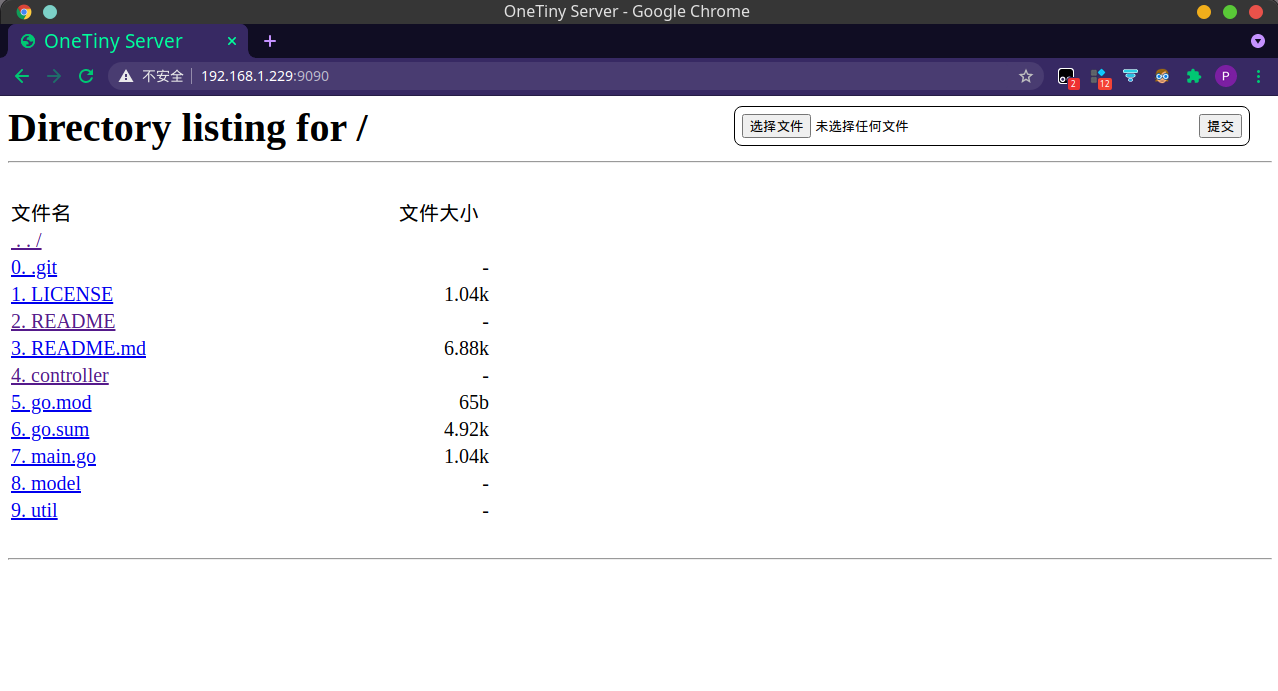
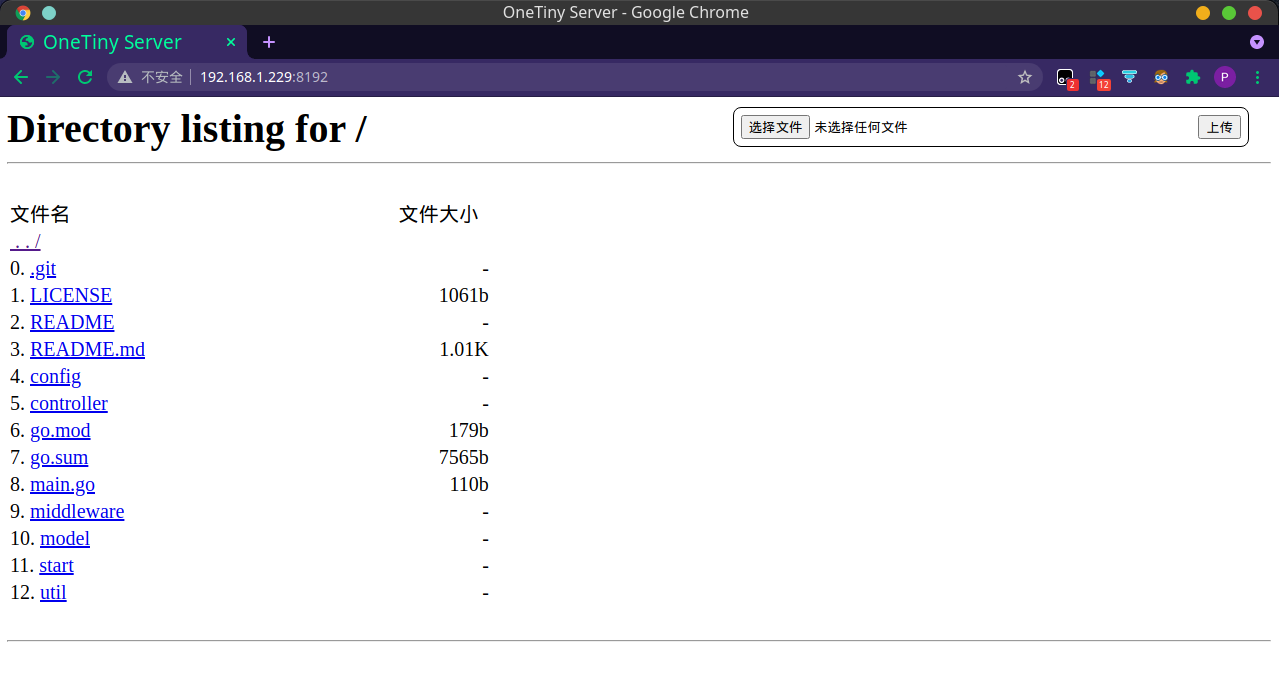
Docs: 修正 README 文档内容 Style: 修改上传框提交按钮文字为 「上传」

diff --git a/util/geneHTML.go b/util/geneHTML.go
@@ -40,7 +40,7 @@ func upload() string {
 		`<div style="position: absolute;right: 30px;top: 10px;font-size: 24px;width: 500px;border: 1px solid #000;padding: 7px;border-radius: 8px;">`,
 		`<form action="/upload" method="post" enctype="multipart/form-data">`,
 		`<input type="file" name="upload_file" style="width: 400px; float: left;">`,
-		`<input type="submit" style="float: right;">`,
+		`<input type="submit" value="上传" style="float: right;">`,
 		`</form>`,
 		`</div>`,
 	}

diff --git a/README.md b/README.md
@@ -98,13 +98,14 @@ $ go build
 > OneTiny -p {端口号}                    # 将运行在 http://本机局域网IP:端口号，共享目录为当前工作目录，禁止上传
 > OneTiny -r {共享目录绝对路径}            # 将运行在 http://本机局域网IP:9090，共享目录为指定目录，禁止上传
 > OneTiny -a [1|t|T|true|True|TRUE|空]  # 将运行在 http://本机局域网IP:9090，共享目录为当前工作目录，允许上传
-> OneTiny -x {0～255}                   # 
-> OneTiny -h                            # 打印帮助信息
+> OneTiny -x {0～255}                   # 将运行在 http://本机局域网IP:9090，共享目录为当前工作目录，禁止上传，默认仅允许访问共享目录一层，禁止进入下一层目录
+
+> OneTiny -h         # 打印帮助信息
 > OneTiny help
-> OneTiny -v
+> OneTiny -v         # 打印版本信息
 > OneTiny version
 
-> OneTiny -r=C:\Users\Boii -p=8192 -a -x=2 # 将运行在 「http://本机局域网IP:8192」，共享目录为 「C:\Users\Boii」 ，允许上传，允许访问共享目录往下2层
+> OneTiny -r=C:\Users\Boii -p=8192 -a -x=2      # 将运行在 「http://本机局域网IP:8192」，共享目录为 「C:\Users\Boii」 ，允许上传，允许访问共享目录往下2层
 ```
 
 **Linux**、**Mac**:
@@ -139,7 +140,7 @@ OneTiny - 一个用于局域网内共享文件的FTP程序
 ```
 
 ### 访问
-1. 运行程序后，程序会提示此次服务运行在哪个端口，共享的是哪个目录。
+1. 运行程序后，程序会提示此次服务运行在哪个端口，共享的是哪个目录，是否允许上传，允许访问的最大深度。
 2. 打开浏览器，输入程序提示框中给出的地址，回车即可访问。
 
 举个栗子：
